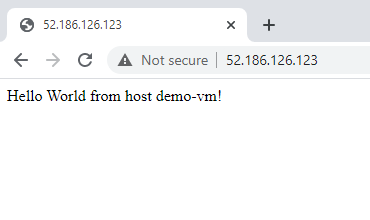
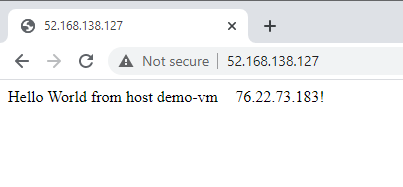
edits

diff --git a/articles/javascript/tutorial/nodejs-virtual-machine-vm/create-linux-virtual-machine-azure-cli.md b/articles/javascript/tutorial/nodejs-virtual-machine-vm/create-linux-virtual-machine-azure-cli.md
@@ -6,13 +6,13 @@ ms.date: 11/09/2020
 ms.custom: devx-track-js
 ---
 
-# 2. Create Linux virtual machine using Azure CLI
+# 3. Create Linux virtual machine using Azure CLI
 
 In this section of the tutorial, use the Azure CLI to create and configure your virtual machine. At this point in the tutorial, you should have a terminal window open and signed into the Azure cloud on the subscription where you intend to create the virtual machine. 
 
 All of the Azure CLI steps can be completed from a single instance of the Azure CLI. If you close the window or switch where you are using Azure CLI, such as between the Cloud shell and your local terminal, you will need to [sign in](./introduction.md#sign-in-to-azure-cli) again. 
 
-## Create a linux virtual machine from a GitHub repository
+## Create a cloud-init file to expedite linux virtual machine creation
 
 This tutorial uses a cloud-init configuration file to create both the NGINX reverse proxy server and the Express.js server. NGINX is used to forward the Express.js port (3000) to the public port (80). 
 
@@ -26,22 +26,9 @@ The `runcmd` has several tasks:
 
     :::code language="yaml" source="~/../js-e2e-vm/cloud-init-github.txt" :::
 
-
-## Create a resource group for your virtual machine resources
-
-A linux virtual machine includes several Azure resources. Creating a resource group allows you to easily find the resources, and delete them when you are done.
-
-1. Create an Azure resource group with the following Azure CLI command:
-
-    ```azurecli
-    az group create \
-        --location eastus \
-        --name rg-demo-vm-eastus 
-    ```
-
 ## Create a virtual machine resource 
 
-1. Create an Azure resource of a Linux virtual machine with the following Azure CLI command. The Azure Cloud Shell provides [Nano](https://www.nano-editor.org/dist/latest/nano.html#Editor-Basics) as a text editor. The command adds the local cloud-init and generates the SSH keys for you. The running command displays where the keys are stored. 
+1. Enter the Azure CLI command at a terminal to create an Azure resource of a Linux virtual machine. The Azure Cloud Shell provides [Nano](https://www.nano-editor.org/dist/latest/nano.html#Editor-Basics) as a text editor. The command adds the local cloud-init and generates the SSH keys for you. The running command displays where the keys are stored. 
 
     ```azurecli
     az vm create \
@@ -54,7 +41,7 @@ A linux virtual machine includes several Azure resources. Creating a resource gr
       --custom-data cloud-init-github.txt
     ```
 
-    The process may take a few minutes. When the process is complete, the Azure CLI returns information about the new resource. Keep the `publicIpAddress` value, it is used later. 
+    The process may take a few minutes. When the process is complete, the Azure CLI returns information about the new resource. Keep the `publicIpAddress` value, it is needed to view the web app in a browser and to connect to the VM. 
      
 
 1. When first created, the virtual machine has _no_ open ports. Open port 80 with the following Azure CLI command so the web app is publicly available:
@@ -72,15 +59,17 @@ A linux virtual machine includes several Azure resources. Creating a resource gr
     http://YOUR-PUBLIC-IP-ADDRESS
     ```
 
-    If the resource fails with a gateway error, try again in a minute, the web app may take a minute to start.
-
-    While you can and should eventually add HTTPS and a domain name to represent the public Ip address, that isn't part of this tutorial. The following image represents the web app, but your app will use a different Ip address.
+    The following image represents the web app, but your app will use a different Ip address. If the resource fails with a gateway error, try again in a minute, the web app may take a minute to start. 
 
     :::image type="content" source="../../media/tutorial-vm/basic-web-app.png" alt-text="Simple app served from Linus virtual machine on Azure.":::
+
+    The initial code file for the web app has a single route displaying your client Ip address, passed through the NGINX proxy. 
+
+    :::code language="javascript" source="~/../js-e2e-vm/index.js" :::
 
 1. Leave the terminal open, you will use it through out the tutorial.
 
 ## Next step
 
 > [!div class="nextstepaction"]
-> [Install Application Insights client library and change code](create-azure-monitoring-application-insights-web-resource.md) 
+> [Connect to VM with SSH](connect-linux-virtual-machine-ssh.md) 

diff --git a/articles/javascript/tutorial/nodejs-virtual-machine-vm/create-azure-monitoring-application-insights-web-resource.md b/articles/javascript/tutorial/nodejs-virtual-machine-vm/create-azure-monitoring-application-insights-web-resource.md
@@ -1,24 +1,36 @@
 ---
 title: Create Azure Monitor resource
-description: Create an Azure resource to collect your web app's log files to the Azure cloud. Azure Monitor is the name of the Azure service, while Application Insights is the name of the client library the tutorial uses.
+description: Create an Azure resource group for all your Azure resources and a Monitor resource to collect your web app's log files to the Azure cloud. Azure Monitor is the name of the Azure service, while Application Insights is the name of the client library the tutorial uses.
 ms.topic: tutorial
 ms.date: 11/09/2020
 ms.custom: devx-track-js
 ---
 
-# 3. Create Application Insights resource for web pages
+# 2. Create Application Insights resource for web pages
 
-In this step of the tutorial, create an Azure resource to collect your web app's log files to the Azure cloud. Azure Monitor is the name of the Azure service, while Application Insights is the name of the client library the tutorial uses. 
+In this step of the tutorial, create an Azure resource group for all your Azure resources and a Monitor resource to collect your web app's log files to the Azure cloud. Azure Monitor is the name of the Azure service, while Application Insights is the name of the client library the tutorial uses. 
+
+## Create a resource group for your virtual machine resources
+
+This tutorial includes several Azure resources. Creating a resource group allows you to easily find the resources, and delete them when you are done.
+
+1. At a terminal or bash shell, enter the Azure CLI command to create an Azure resource group, with the name `rg-demo-vm-eastus`:
+
+    ```azurecli
+    az group create \
+        --location eastus \
+        --name rg-demo-vm-eastus 
+    ```
 
 ## Create Azure Monitor resource with Azure CLI
 
-1. Install Application Insights extension to Azure CLI.
+1. Install Application Insights extension to the Azure CLI.
 
     ```azurecli
     az extension add -n application-insights
     ```
 
-1. In the same terminal window where you have uses Azure CLI in previous steps, use the following command to create a monitoring resource:
+1. Use the following command to create a monitoring resource:
 
 
     ```azurecli
@@ -35,4 +47,4 @@ In this step of the tutorial, create an Azure resource to collect your web app's
 ## Next step
 
 > [!div class="nextstepaction"]
-> [Connect to virtual machine with SSH](connect-linux-virtual-machine-ssh.md) 
+> [Create Linux virtual machine](create-linux-virtual-machine-azure-cli.md) 

diff --git a/articles/javascript/tutorial/nodejs-virtual-machine-vm/azure-monitor-application-insights-nodejs-expressjs-code.md b/articles/javascript/tutorial/nodejs-virtual-machine-vm/azure-monitor-application-insights-nodejs-expressjs-code.md
@@ -20,7 +20,7 @@ In this step, add the Azure SDK client library to the code on the virtual machin
 
 1. Edit the to add the client library and logging code, highlighted below. Many bash shells allow you to copy and paste directly into nano. 
 
-    :::code language="javascript" source="~/../js-e2e-vm/index-logging.js" highlight="5, 7-19, 25,26" :::
+    :::code language="javascript" source="~/../js-e2e-vm/index-logging.js" highlight="5-28" :::
 
 1. When you are done, use `Control+x` to quit, then `y` to save the changes. The Node.js app is started and watched by PM2 so this cause a restart of the app, without having to restart the VM. 
 
@@ -32,7 +32,16 @@ In this step, add the Azure SDK client library to the code on the virtual machin
 
     The browser displays the response, `tracing...` with your IP address.
 
-1. View VM log for the NGINX proxy server. In the same bash shell, use the following command to view the log:
+## Viewing the VM logs for NGINX and PM2
+
+The VM collects logs for NGINX and PM2, they are available to view.
+
+| Service | Log location|
+|--|--|
+|NGINX| /var/log/nginx/access.log|
+|PM2| /var/log/pm2.log|
+
+1. View VM log for the NGINX proxy service. In the same bash shell, use the following command to view the log:
 
     ```bash
      cat /var/log/nginx/access.log
@@ -44,7 +53,20 @@ In this step, add the Azure SDK client library to the code on the virtual machin
      "GET /trace HTTP/1.1" 200 10 "-"
     ```
 
-1. The tutorial won't connect to the VM again. Exit ssh connection with the following command in the bash shell. 
+1. View VM log for the PM2 service. In the same bash shell, use the following command to view the log:
+
+    ```bash
+     cat /var/log/nginx/access.log
+    ```
+
+    The log includes the call from your local computer. 
+
+    ```console
+    Hello world app listening on port 3000!
+    testing from trace route 76.22.73.183
+    ```
+
+1. The tutorial won't connect to the VM again. Exit the ssh connection with the following command in the bash shell. 
 
     ```bash
     exit

diff --git a/articles/javascript/tutorial/nodejs-virtual-machine-vm/connect-linux-virtual-machine-ssh.md b/articles/javascript/tutorial/nodejs-virtual-machine-vm/connect-linux-virtual-machine-ssh.md
@@ -1,5 +1,5 @@
 ---
-title: Connect to virtual machine
+title: SSH to virtual machine
 description: Use SSH to connect to your Linux virtual machine.  If you are using a modern Mac, Windows, or Linux operating system, the terminal-based client SSH should already be installed.
 ms.topic: tutorial
 ms.date: 11/09/2020
@@ -52,13 +52,34 @@ Use the same terminal or shell window as with previous steps.
     sudo npm install --save applicationinsights
     ```
 
-1. Set Azure Monitor instrumentation key for Application Insights into an environment variable.
+1. Use nano editor to add the environment variable to the `start` script in `package.json`. Replace REPLACE-WITH-YOUR-KEY`` with your instrumentation key value. This change sends the Application Insights instrumentation key through PM2 to your web app. 
 
-    ```bash
-    export APPINSIGHTS_INSTRUMENTATIONKEY=REPLACE-WITH-YOUR-KEY
+    ```json
+    {
+        "name": "js-e2e-vm",
+        "version": "1.0.0",
+        "description": "JavaScript server written with Express.js",
+        "main": "index.js",
+        "scripts": {
+            "kill": "pm2 kill",
+            "start": "APPINSIGHTS_INSTRUMENTATIONKEY=REPLACE-WITH-YOUR-KEY pm2 start index.js --watch --log /var/log/pm2.log"
+        },
+        "license": "MIT",
+        "dependencies": {
+            "applicationinsights": "^1.8.8",
+            "express": "^4.17.1",
+            "pm2": "^4.5.0"
+        }
+    }
     ```
 
-    You can check the key is set with the `env` command at the bash terminal.
+1. Kill and restart PM2 with the following commands:
+
+    ```bash
+    sudo npm run-script kill && sudo npm start
+    ```
+
+    The Azure client library is now in your _node_modules_ directory and the key is passed into the app as an environment variable. The next step is to add the required code to `index.js`. 
 
 1. Leave the terminal open and connected to your VM, you will use it in the next step.
 

diff --git a/articles/javascript/tutorial/nodejs-virtual-machine-vm/azure-monitor-application-insights-logs.md b/articles/javascript/tutorial/nodejs-virtual-machine-vm/azure-monitor-application-insights-logs.md
@@ -23,7 +23,7 @@ az monitor app-insights metrics show \
     --metric traces/count
 ```
 
-The response looks something like the following, with this example have a total count of 2 traces: 
+The response looks something like the following, with this example having a total count of 2 traces: 
 
 ```console
 {

diff --git a/articles/javascript/tutorial/nodejs-virtual-machine-vm/introduction.md b/articles/javascript/tutorial/nodejs-virtual-machine-vm/introduction.md
@@ -38,4 +38,4 @@ This tutorial includes the following tasks:
 ## Next step
 
 > [!div class="nextstepaction"]
-> [Create Linux virtual machine](create-linux-virtual-machine-azure-cli.md) 
+> [Create resource group for Azure resources](create-azure-monitoring-application-insights-web-resource.md) 
